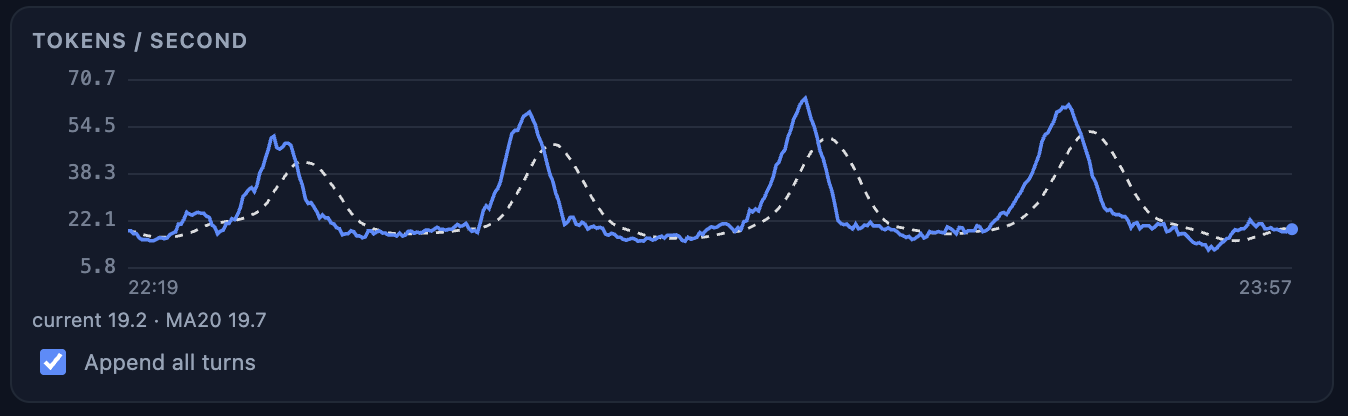
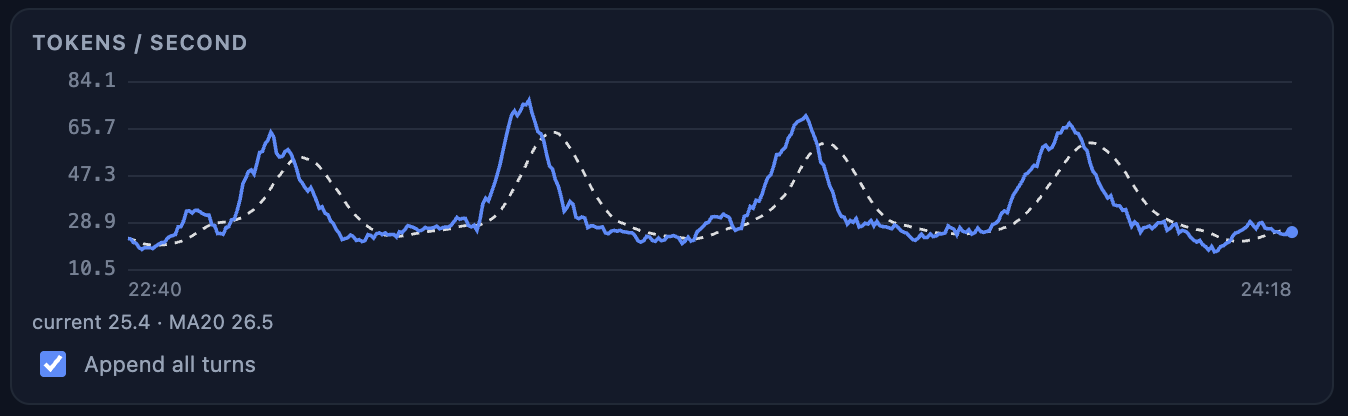
docs: refresh Qwen3.8 27B throughput traces + add community recipe comparison
- Updated the veloGB10 single/TP=2/TP=4 tok/s traces.
- Added a 'Comparison with other Qwen3.8 27B recipes' section with side-by-side
  SGLang traces, credited to:
  * Mia AI Lab — Qwen3.8-27B-SGLang-DGX-Spark (single + TP=2)
    https://github.com/MiaAI-Lab/Qwen3.8-27B-SGLang-DGX-Spark
  * Hasso — dgx-spark-qwen38 (single)
    https://github.com/hasso5703/dgx-spark-qwen38
- Noted these are external recipes, informational comparison only.
- Fixed the sglang_mia_tp2_max double-extension filename.

diff --git a/README.md b/README.md
@@ -62,13 +62,12 @@ average/peak; real numbers vary with content type. **Highest performance is on c
 > Peak rates are typically reached on **code content generation**; prose and mixed content sit lower
 > in the ranges above.
 
-#### Live throughput traces
+#### Live throughput traces (veloGB10)
 
 These are `TOKENS/SECOND` traces pulled straight from the engine's live stats panel while serving
-the Qwen3.8 27B NVFP4 + DFlash 2 config. For each deployment mode you get one **peak-vs-lowest**
-trace (the full spread of a session — where the throughput bottoms out and where it tops out) and
-one **sustained peak** trace (a segment holding its best rate). Download the images to see them at
-full size.
+the Qwen3.8 27B NVFP4 + DFlash 2 config. For each deployment mode there's a **peak-vs-lowest**
+trace (the full spread of a session — where throughput bottoms out and where it tops out) and a
+**sustained peak** trace (a segment holding its best rate). Download the images to see them full-size.
 
 **Single node** — average >30 tok/s, peaks 45–50, some content types ~18 tok/s. The peak-vs-lowest
 trace shows the swing between content types; the sustained-peak trace is a clean stretch running
@@ -94,6 +93,35 @@ bottoms ~45, peaks up to 125. The sustained-peak trace holds a ~120 tok/s platea
 
 Scaling up from one to four nodes roughly **doubles the ceiling** and more than doubles the average
 on code-heavy content.
+
+#### Comparison with other Qwen3.8 27B recipes
+
+Same `TOKENS/SECOND` scale and format, but these are **community SGLang recipes** running the
+Qwen3.8 27B on a single DGX Spark (not veloGB10). They are shown for side-by-side comparison only —
+different kernels, quantization, and serving stacks, so treat the differences as informational, not
+apples-to-apples. Each pair is the same **peak-vs-lowest** / **sustained peak** split as above.
+
+**Mia AI Lab — Qwen3.8-27B-SGLang-DGX-Spark** ([repo](https://github.com/MiaAI-Lab/Qwen3.8-27B-SGLang-DGX-Spark)):
+single-node and two-node (TP=2) SGLang serving.
+
+Single node:
+
+| Peak vs lowest | Sustained peak |
+|---|---|
+| ![sglang_mia single — peak vs lowest](assets/sglang_mia_single_min_max.png) | ![sglang_mia single — sustained peak](assets/sglang_mia_single_max.png) |
+
+TP=2:
+
+| Peak vs lowest | Sustained peak |
+|---|---|
+| ![sglang_mia TP=2 — peak vs lowest](assets/sglang_mia_tp2_min_max.png) | ![sglang_mia TP=2 — sustained peak](assets/sglang_mia_tp2_max.png) |
+
+**Hasso — dgx-spark-qwen38** ([repo](https://github.com/hasso5703/dgx-spark-qwen38)):
+single-node SGLang serving.
+
+| Peak vs lowest | Sustained peak |
+|---|---|
+| ![sglang_hasso single — peak vs lowest](assets/sglang_hasso_single_min_max.png) | ![sglang_hasso single — sustained peak](assets/sglang_hasso_single_max.png) |
 
 ### Getting started with Qwen 3.8 27B
 
